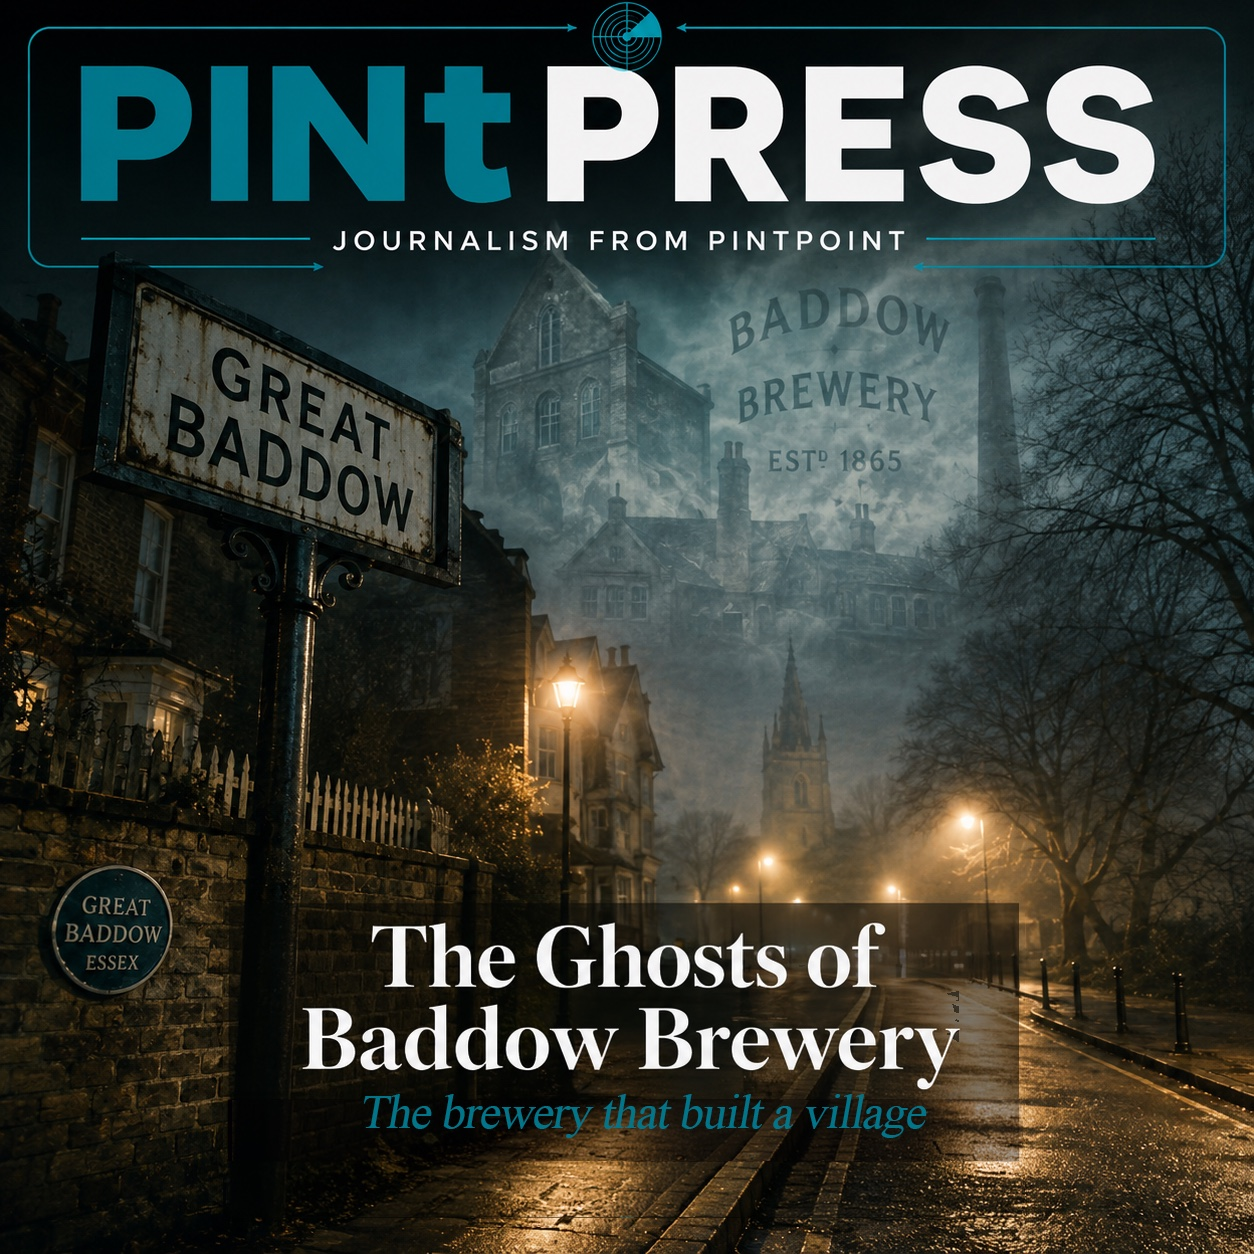
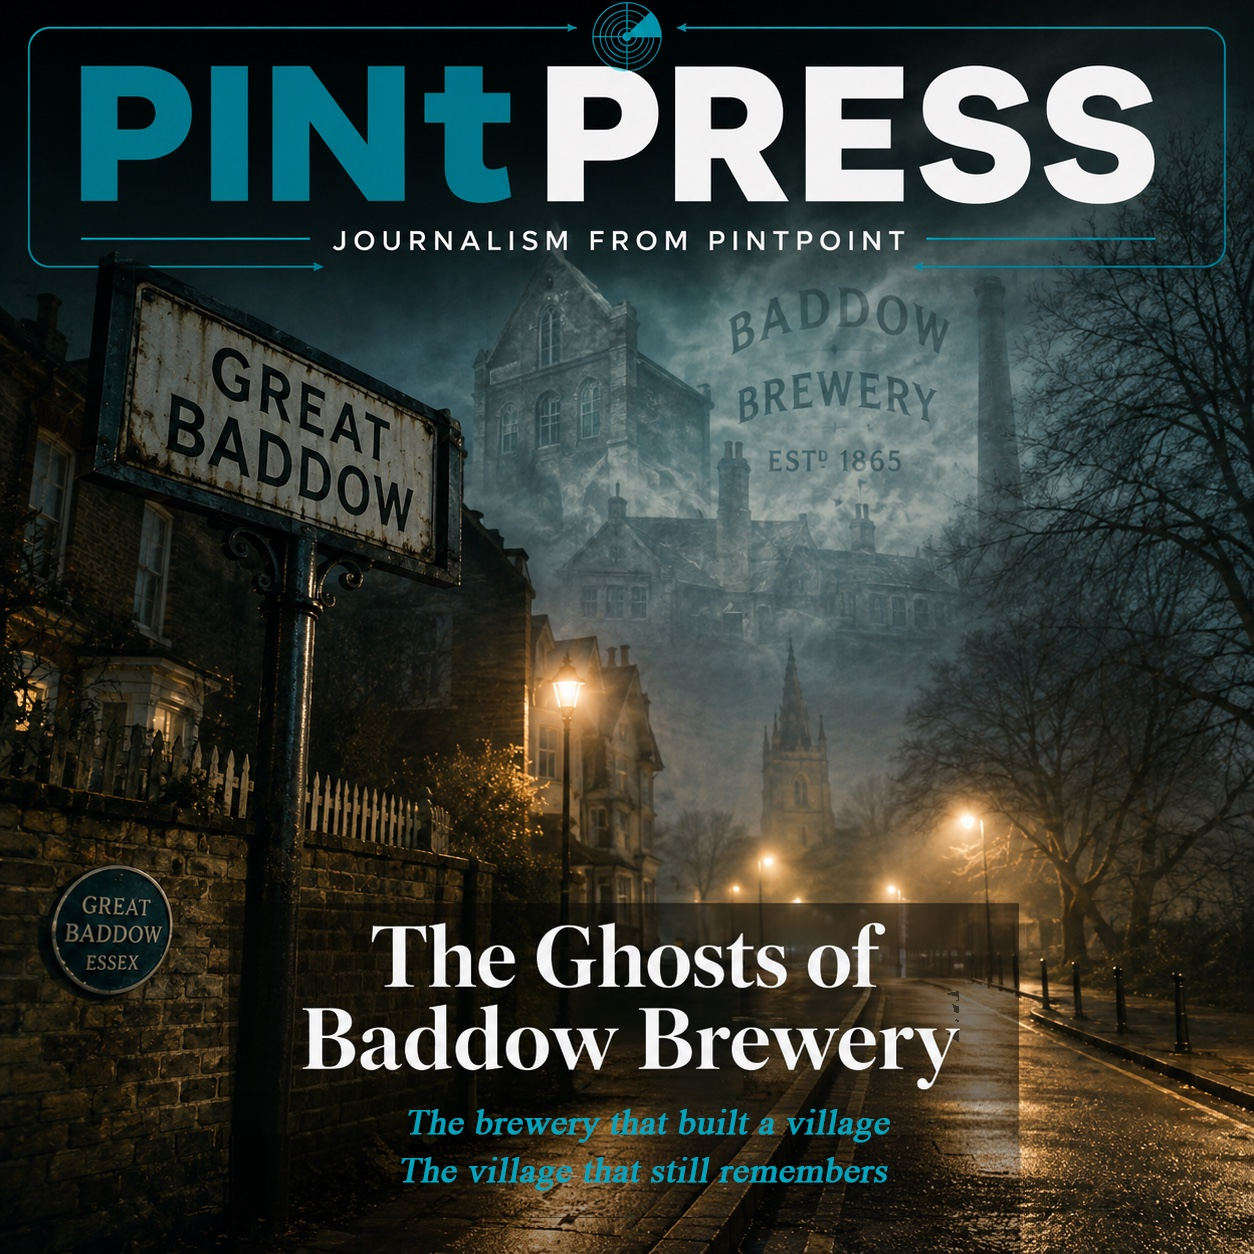
blog(baddow): cover v2 — tagline couplet 'built a village / still remembers'
Same street/brewery composition, tagline extended to a two-line
couplet: "The brewery that built a village / The village that still
remembers". Alt text updated to match.

Changed region(s): [[0.2799, 0.8708, 0.8708, 1.0]]

diff --git a/blog/drafts/ghosts-of-baddow-brewery-v2.html b/blog/drafts/ghosts-of-baddow-brewery-v2.html
@@ -14,7 +14,7 @@
   <meta property="og:title" content="Ghosts of Baddow Brewery" />
   <meta property="og:description" content="Of Baddow Brewery’s 61 listed pubs, 30 still appear to be trading. This is the lost Essex brewery estate map." />
   <meta property="og:image" content="https://pintpoint.co.uk/blog/images/ghosts-of-baddow-brewery.jpg" />
-  <meta property="og:image:alt" content="PINtPRESS cover: a Great Baddow street sign in the foreground and a ghostly Baddow Brewery building rising behind it, with the essay title ‘The Ghosts of Baddow Brewery — the brewery that built a village’." />
+  <meta property="og:image:alt" content="PINtPRESS cover: a Great Baddow street sign in the foreground and a ghostly Baddow Brewery building rising behind it, with the essay title ‘The Ghosts of Baddow Brewery — the brewery that built a village, the village that still remembers’." />
   <meta name="twitter:card" content="summary_large_image" />
   <link rel="preconnect" href="https://fonts.googleapis.com" />
   <link href="https://fonts.googleapis.com/css2?family=Inter:wght@400;500;600;700;800;900&display=swap" rel="stylesheet" />
